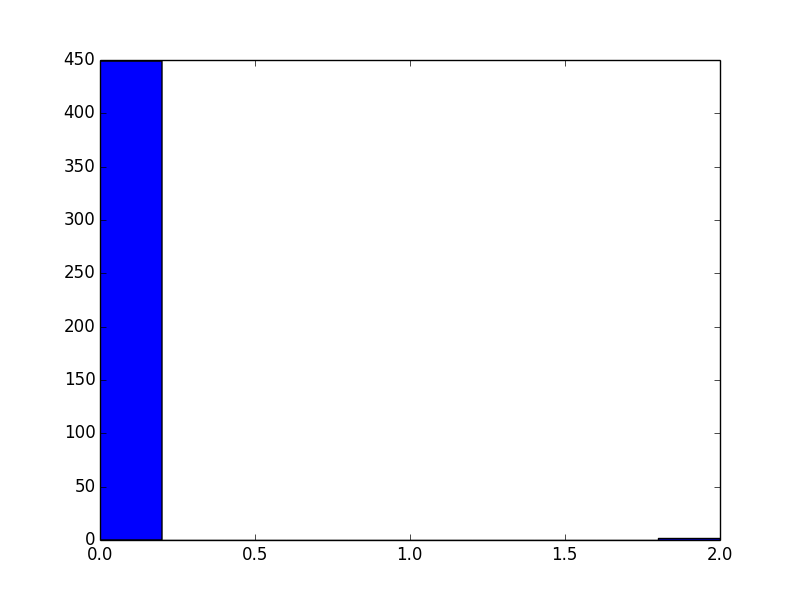
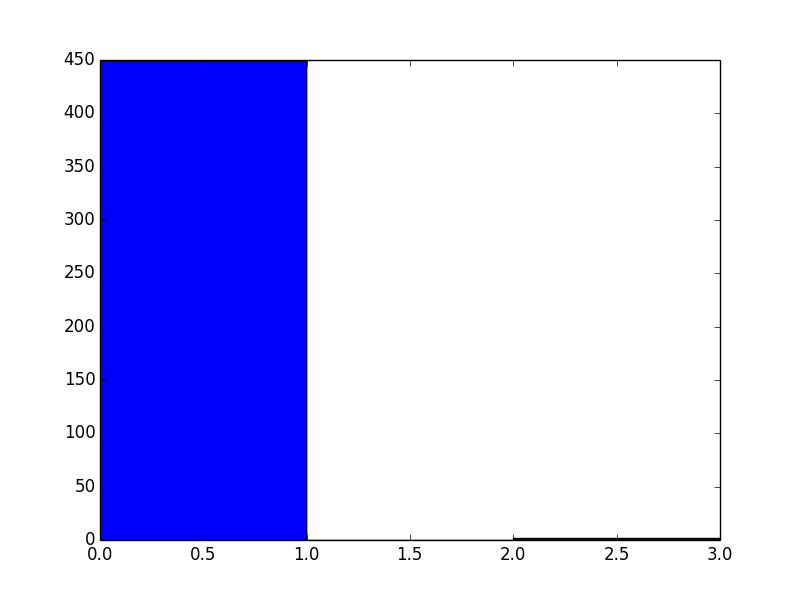
sada'

diff --git a/python_code/unique.py b/python_code/unique.py
@@ -37,6 +37,7 @@ for row in data:
 for i in count:
     i = i/len(data)
 #count = count /len(data)
-#x = [i for i in range(451)]
-plt.hist(count,10)
+x = [i for i in range(451)]
+
+plt.hist(count,bins =x)
 plt.savefig("test.png")
